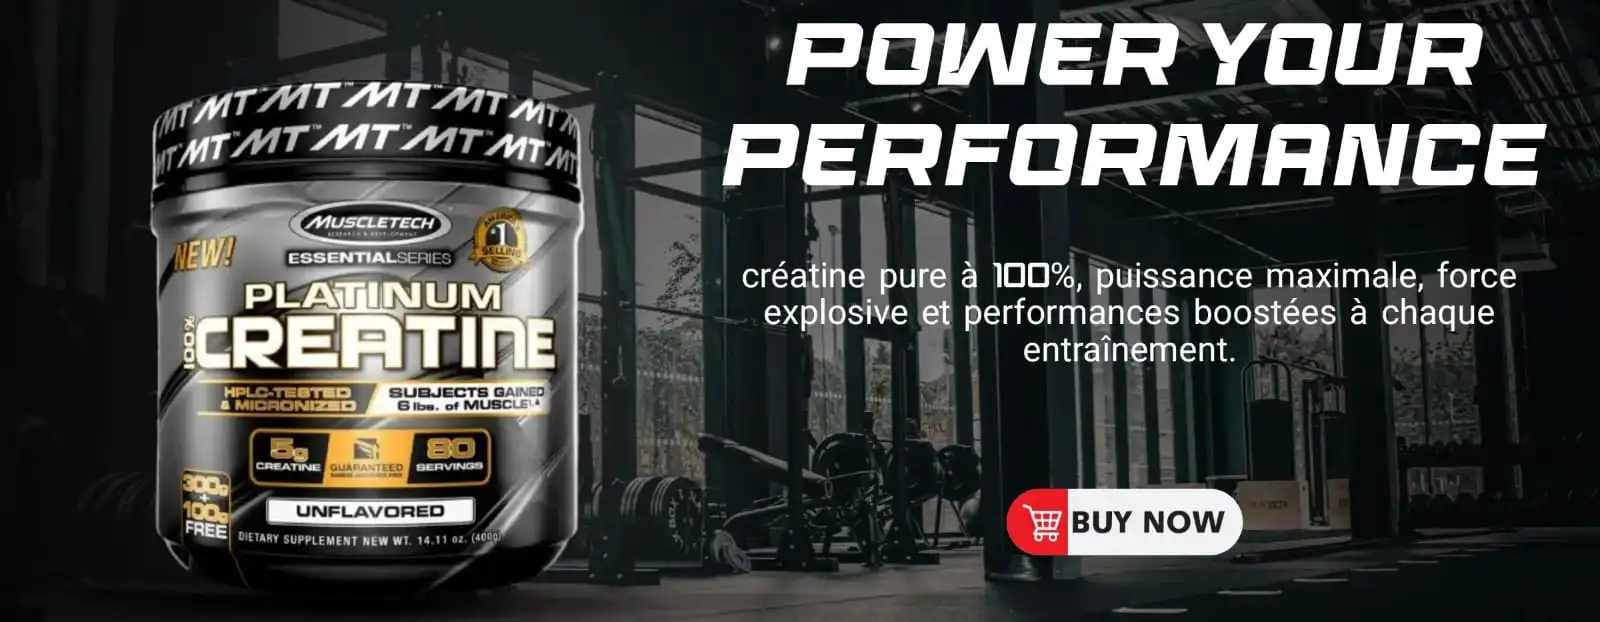
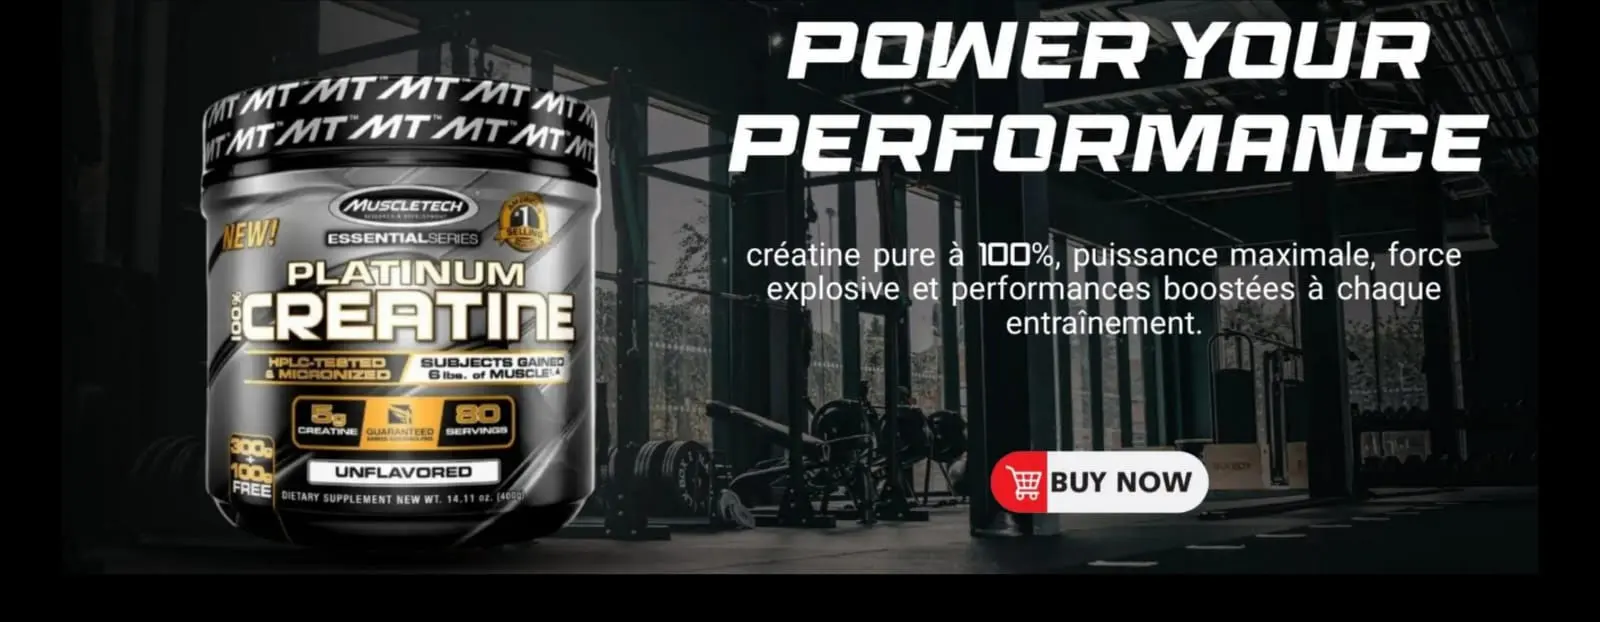
image slides changed

diff --git a/frontend/src/app/components/slides/slides.component.html b/frontend/src/app/components/slides/slides.component.html
@@ -13,7 +13,7 @@
     <ng-container *ngFor="let slide of data">
       <swiper-slide>
         <!-- Lazy-loaded image for better performance -->
-        <div class="single_slider d-flex align-items-center" style="height: auto; position: relative;">
+        <div class="single_slider d-flex align-items-center" style="height: 560px; position: relative;">
           <img class="swiper-lazy" loading="lazy" lazy [src]="slide.cover" [alt]="slide.designation_fr" style="width:100%; height:100%; object-fit: cover;">
           <div class="swiper-lazy-preloader"></div>
         </div>
